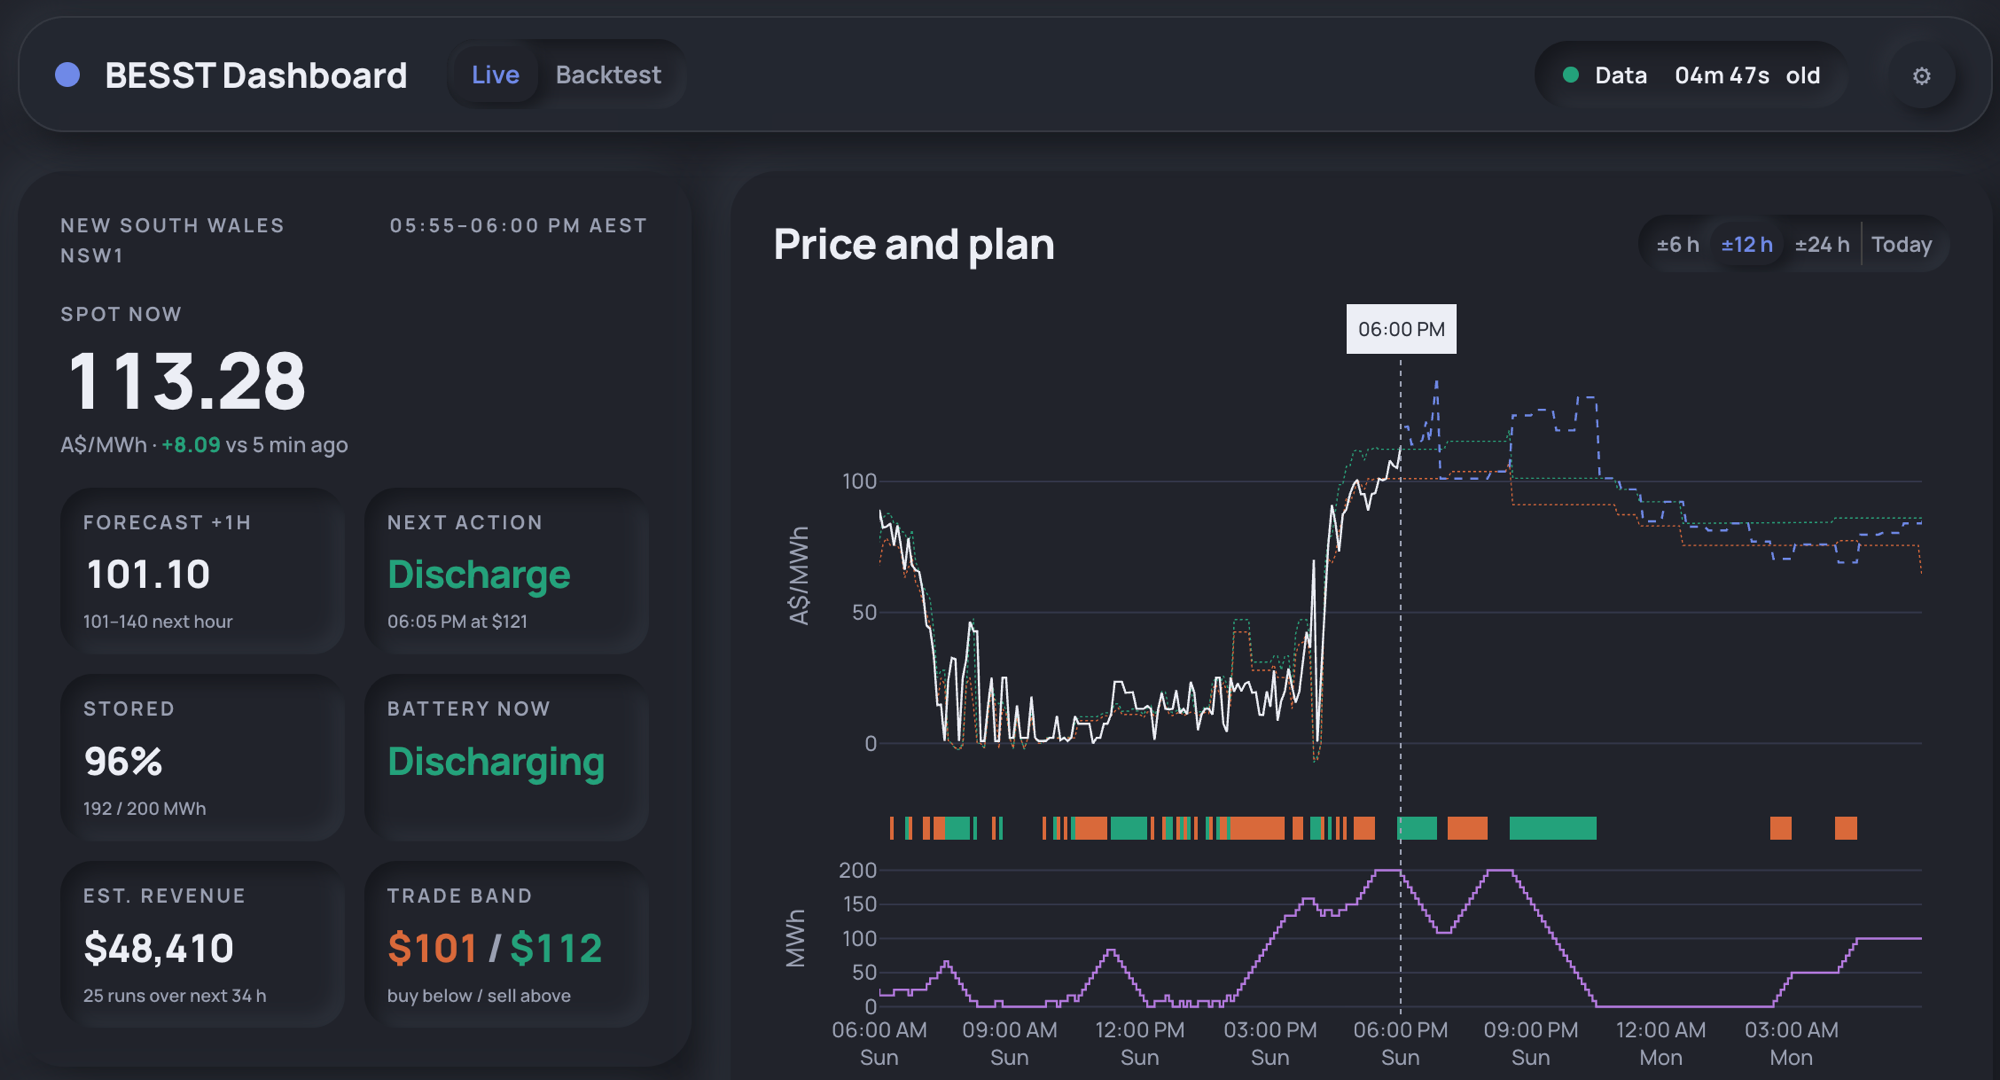
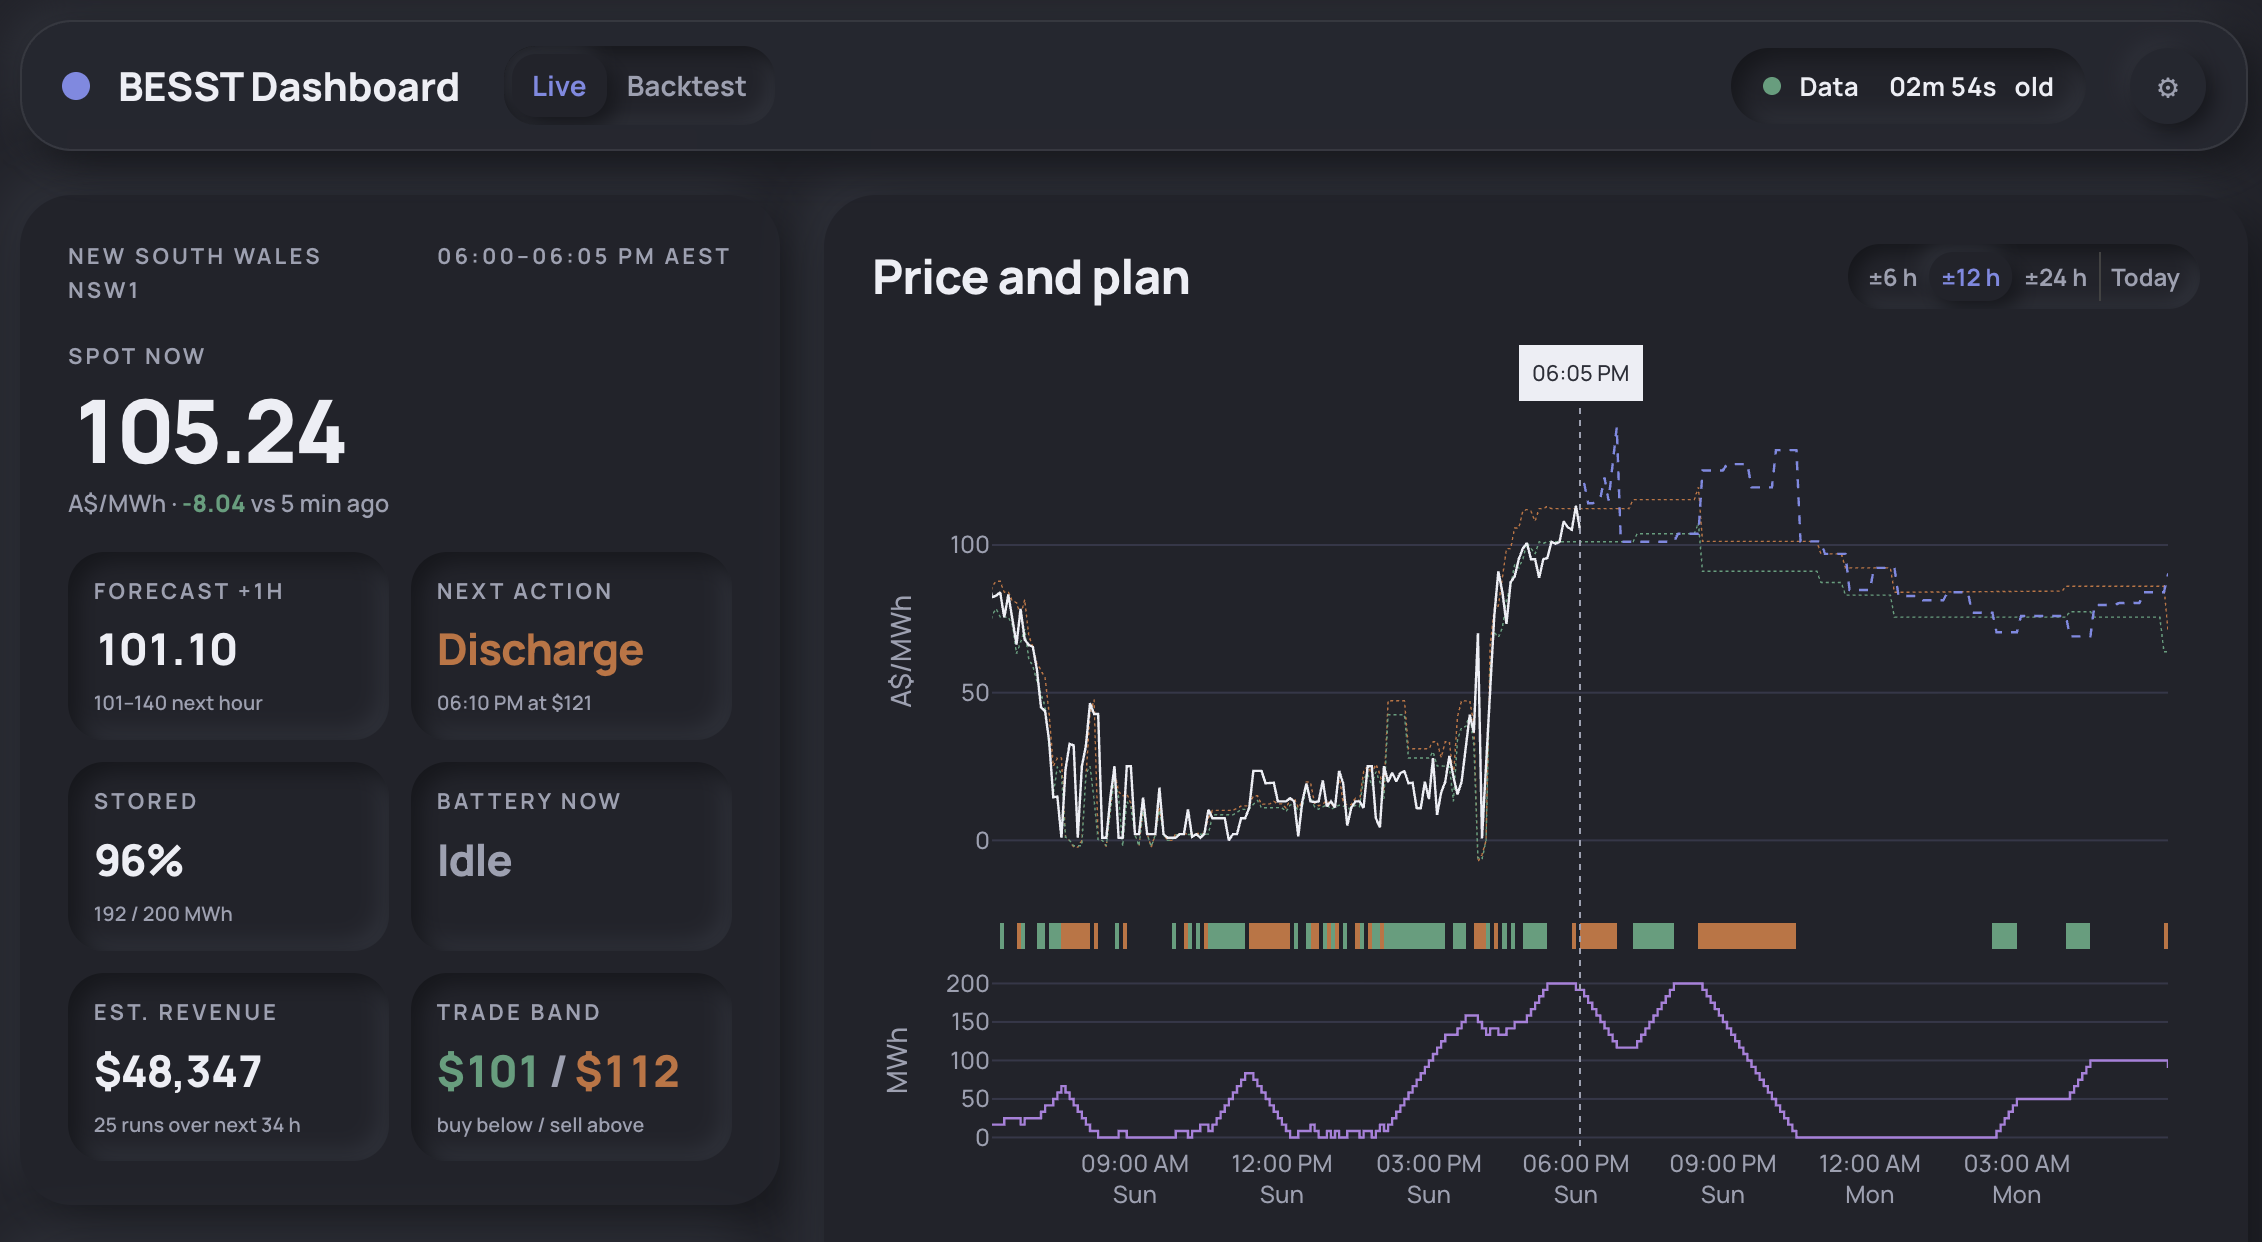
README: replace the screenshot with one in the default trade colours
2262x1242, and smaller than the one it replaces. Green charging, orange
discharging, so the caption no longer needs to explain a swapped palette.

Claude-Session: https://claude.ai/code/session_01XNbVbwM71pSQ5GEXdd4wNE

diff --git a/README.md b/README.md
@@ -4,7 +4,7 @@ A 200 MWh grid battery in the NSW1 region of the Australian National Electricity
 
 ![The BESST Dashboard Live tab, showing spot price, the AEMO forecast, the battery's plan and its state of charge](docs/live-tab.png)
 
-The Live tab. Spot price top left, the plan's next action and thresholds below it, and on the right today's actual prices in white running into AEMO's dashed forecast, with the plan as a tape under the chart and state of charge in the lower panel. Shown in dark mode with the sidebar's "Green sells" option, which swaps the default trade colours, so here green is discharging and orange is charging.
+The Live tab in dark mode. Spot price top left, the plan's next action and its buy/sell thresholds below it, and on the right today's actual prices in white running into AEMO's dashed forecast, with the plan as a tape under the chart and state of charge in the lower panel. Green is charging and orange discharging, the default. Note that the battery is idle right now while the next action is a discharge at 06:10 PM: the tiles separate what the battery is doing this interval from the next trade in the plan.
 
 ---
 
